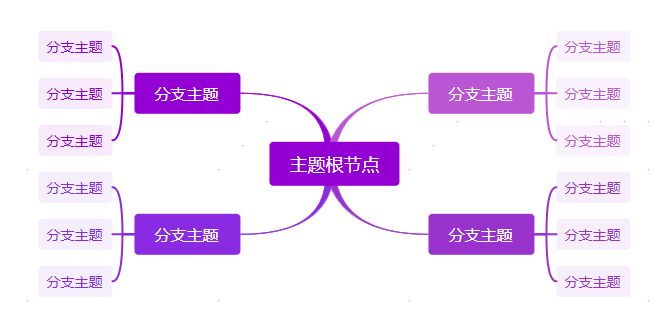
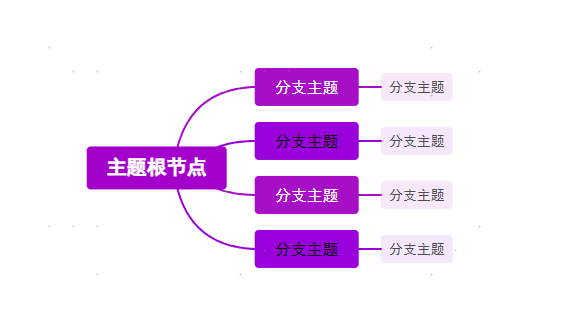
feat: 主题样式调整

Changed region(s): [[0.0621, 0.1129, 0.931, 0.9028]]

diff --git a/src/views/XMind/components/SidebarTriggerContainer.vue b/src/views/XMind/components/SidebarTriggerContainer.vue
@@ -41,7 +41,6 @@
           v-for="item in themes"
           :key="item.theme">
           <img :src="item.img" alt="theme">
-          <p>{{ item.name }}</p>
         </div>
       </div>
       <div class="structure-modal" v-show="currentId === 'jiegou'">
@@ -52,7 +51,6 @@
           v-for="item in structures"
           :key="item.structure">
           <img :src="item.img" alt="structure">
-          <p>{{ item.name }}</p>
         </div>
       </div>
       <div class="shortcut-modal" v-show="currentId === 'kuaijiejian'">
@@ -117,10 +115,10 @@ export default defineComponent({
     ]
 
     const structures = [
-      { name: '逻辑结构图', structure: 'ljjgt', img: require('@/assets/images/xmind/ljjgt.png') },
-      { name: '思维导图', structure: 'swdt', img: require('@/assets/images/xmind/swdt.png') },
-      { name: '组织架构图', structure: 'zzjgt', img: require('@/assets/images/xmind/zzjgt.png') },
-      { name: '括号图', structure: 'kht', img: require('@/assets/images/xmind/kht.png') }
+      { name: '逻辑结构图', structure: 'ljjgt', img: require('@/assets/images/xmind/ljjgt.svg') },
+      { name: '思维导图', structure: 'swdt', img: require('@/assets/images/xmind/swdt.svg') },
+      { name: '组织架构图', structure: 'zzjgt', img: require('@/assets/images/xmind/zzjgt.svg') },
+      { name: '括号图', structure: 'kht', img: require('@/assets/images/xmind/kht.svg') }
     ]
 
     const shortcuts = [
@@ -300,7 +298,7 @@ export default defineComponent({
         transition: .2s;
         overflow: hidden;
         border: 2px solid transparent;
-        padding-top: 12px;
+        border-radius: 4px;
         &:hover {
           box-shadow: 0px 0px 18px 5px rgba(0,0,0,0.1);
         }
@@ -310,14 +308,15 @@ export default defineComponent({
         }
         img {
           display: block;
-          width: 80%;
+          width: 100%;
           margin: 0 auto;
         }
-        p {
-          text-align: center;
-          color: #000;
-          font-size: 12px;
-          line-height: 38px;
+        &.structure-modal {
+         &-item {
+          img {
+            width: 80%;
+          }
+         }
         }
       }
     }

diff --git a/src/views/XMind/graph/thumbDraw.js b/src/views/XMind/graph/thumbDraw.js
@@ -662,28 +662,15 @@ export function renderNewSummaryNode () {
                   .attr('fill', 'none')
                   .each(function () {
                     select(this.parentNode)
-                      .append('text')
+                      .append('foreignObject')
                       .attr('x', controlPos.x + (16 + 10) * unit - (dir ? 0 : targetSummarys[i].summaryWidth - 10 - 10))
                       .attr('y', controlPos.y - targetSummarys[i].summaryHeight / 2 + 6)
-                      .attr('dominant-baseline', 'text-before-edge')
+                      .attr('width', targetSummarys[i].summaryWidth)
+                      .attr('height', targetSummarys[i].summaryHeight)
+                      .append('xhtml:p')
+                      .attr('class', 'node-summary-description')
                       .text(targetSummarys[i].text)
-                      .attr('fill', xmindTheme.summaryTextColor)
-                      .attr('font-weight', 'bold')
-                      .attr('font-size', 12)
-                      .each(function () {
-                        select(this.parentNode)
-                          .append('rect')
-                          .attr('class', 'high-border')
-                          .attr('x', controlPos.x + 13 * unit - (dir ? 0 : targetSummarys[i].summaryWidth + 6))
-                          .attr('y', controlPos.y - targetSummarys[i].summaryHeight / 2 - 3)
-                          .attr('width', targetSummarys[i].summaryWidth + 6)
-                          .attr('height', targetSummarys[i].summaryHeight + 6)
-                          .attr('rx', 4)
-                          .attr('ry', 4)
-                          .attr('stroke', 'none')
-                          .attr('stroke-width', '2')
-                          .attr('fill', 'transparent')
-                      })
+                      .style('color', xmindTheme.summaryTextColor)
                   })
               })
           })

diff --git a/src/views/XMind/graph/draw.js b/src/views/XMind/graph/draw.js
@@ -855,6 +855,7 @@ export function renderNewSummaryNode (id) {
       const targetSummarys = node.data.targetSummarys
       const dir = node.direction === 'right'
       const minY = getXmindSummaryPos(node).minY
+      console.log(getXmindSummaryPos(node))
       const unit = dir ? 1 : '-1'
       for (let i = 0; i < targetSummarys.length; i++) {
         const targetId = targetSummarys[i].id
@@ -925,16 +926,17 @@ export function renderNewSummaryNode (id) {
                   .attr('fill', 'none')
                   .each(function () {
                     select(this.parentNode)
-                      .append('text')
+                      .append('foreignObject')
                       .attr('x', controlPos.x + (16 + 10) * unit - (dir ? 0 : targetSummarys[i].summaryWidth - 10 - 10))
                       .attr('y', controlPos.y - targetSummarys[i].summaryHeight / 2 + 6)
-                      .attr('dominant-baseline', 'text-before-edge')
+                      .attr('width', targetSummarys[i].summaryWidth)
+                      .attr('height', targetSummarys[i].summaryHeight)
+                      .append('xhtml:p')
+                      .attr('class', 'node-summary-description')
                       .text(targetSummarys[i].text)
-                      .attr('fill', xmindTheme.summaryTextColor)
-                      .attr('font-weight', 'bold')
-                      .attr('font-size', 12)
+                      .style('color', xmindTheme.summaryTextColor)
                       .each(function () {
-                        select(this.parentNode)
+                        select(this.parentNode.parentNode)
                           .append('rect')
                           .attr('class', 'high-border')
                           .attr('x', controlPos.x + 13 * unit - (dir ? 0 : targetSummarys[i].summaryWidth + 6))

diff --git a/src/views/XMind/theme/index.js b/src/views/XMind/theme/index.js
@@ -13,16 +13,16 @@ export default {
         return {
           rx: 4,
           ry: 4,
-          fill: '#FF0000',
-          stroke: '#FF0000',
+          fill: '#092933',
+          stroke: '#092933',
           strokeWidth: 0,
           textStyle: {
             color: '#fff',
-            fontSize: 20,
-            fontWeight: 'bold'
+            fontSize: 18,
+            fontWeight: 'normal'
           },
           lineStyle: {
-            fill: '#FF0000',
+            fill: '#092933',
             lineWidth: 2
           },
           margin: {
@@ -240,8 +240,8 @@ export default {
           strokeWidth: 0,
           textStyle: {
             color: '#fff',
-            fontSize: 20,
-            fontWeight: 'bold'
+            fontSize: 18,
+            fontWeight: 'normal'
           },
           lineStyle: {
             fill: '#008B8B',
@@ -266,7 +266,7 @@ export default {
       getStyle: function () {
         return {
           colors: ['#00868B', '#008B8B', '#528B8B'],
-          textColors: ['#fff', '#000', '#fff'],
+          textColors: ['#fff', '#fff', '#fff'],
           rx: 4,
           ry: 4,
           stroke: 'rgba(0,0,0,0)',
@@ -352,8 +352,8 @@ export default {
           strokeWidth: 0,
           textStyle: {
             color: '#fff',
-            fontSize: 20,
-            fontWeight: 'bold'
+            fontSize: 18,
+            fontWeight: 'normal'
           },
           lineStyle: {
             fill: '#9400D3',
@@ -378,7 +378,7 @@ export default {
       getStyle: function () {
         return {
           colors: ['#9932CC', '#8A2BE2'],
-          textColors: ['#fff', '#000'],
+          textColors: ['#fff', '#fff'],
           rx: 4,
           ry: 4,
           stroke: 'rgba(0,0,0,0)',

diff --git a/src/views/XMind/index.vue b/src/views/XMind/index.vue
@@ -828,6 +828,7 @@ export default defineComponent({
           break
         case 'copy-style':
           copyStyle.value = getNodeCustomStyle(currnentNode.value.data)
+          console.log(currnentNode.value)
           hiddenPopover()
           break
         case 'reference-style':
@@ -838,7 +839,6 @@ export default defineComponent({
           }
           updateXmindCanvas()
           hiddenPopover()
-          copyStyle.value = null
           break
         case 'cut':
           isPastState.value = false
@@ -1181,7 +1181,7 @@ export default defineComponent({
       if (readOnly.value) return
       const combinationId = select(_this).datum().parentId
       editorTypeName.value = 'summary'
-      editorNodeValue.value = select(`#summary-path-${combinationId} > g > text`).text()
+      editorNodeValue.value = select(`#summary-path-${combinationId} .node-summary-description`).text()
       editorVisible.value = true
     }
 
@@ -2139,7 +2139,7 @@ export default defineComponent({
   animation: relation-path-move 10s infinite linear;
 }
 
-.node-text-description {
+.node-summary-description, .node-text-description {
   word-break: break-all;
   white-space: pre-wrap;
   line-height: inherit;
@@ -2147,6 +2147,11 @@ export default defineComponent({
   margin: 0;
   max-width: 300px;
   line-break: anywhere;
+  &.node-summary-description {
+    max-width: 420px;
+    font-size: 12px;
+    font-weight: bold;
+  }
 }
 
 @keyframes relation-path-move {

diff --git a/src/views/XMind/utils/node.js b/src/views/XMind/utils/node.js
@@ -119,7 +119,14 @@ function calcNodeSize (nodes) {
     if (node.data.targetSummarys?.length) {
       const summarys = node.data.targetSummarys
       for (let i = 0; i < summarys.length; i++) {
-        const { width, height } = createTextNode(summarys[i].text, 12, 'bold', "微软雅黑, 'Microsoft YaHei'")
+        // const { width, height } = createTextNode(summarys[i].text, 12, 'bold', "微软雅黑, 'Microsoft YaHei'")
+        const { width, height } = getTextNodeRect({
+          text: summarys[i].text,
+          fontSize: 12,
+          fontWeight: 'bold',
+          fontFamily: "微软雅黑, 'Microsoft YaHei'",
+          maxWidth: '420px'
+        })
         summarys[i].summaryWidth = width + 20
         summarys[i].summaryHeight = height + 12
       }
@@ -163,11 +170,12 @@ function getTextNodeRect (options) {
     fontSize,
     fontWeight = 'normal',
     fontFamily = "黑体, SimHei, 'Heiti SC'",
-    fontStyle = 'normal'
+    fontStyle = 'normal',
+    maxWidth = '300px'
   } = options
   const textSpan = document.createElement('p')
   const spanStyle = {
-    maxWidth: '300px',
+    maxWidth,
     fontSize: fontSize + 'px',
     fontWeight,
     fontFamily,

diff --git a/src/views/XMind/components/Editor.vue b/src/views/XMind/components/Editor.vue
@@ -101,11 +101,9 @@ export default defineComponent({
             padding: '8px'
           },
           c2: {
-            whiteSpace: 'pre-wrap',
-            wordBreak: 'break-all',
-            minWidth: 'auto',
             marginTop: 0,
-            lineBreak: 'anywhere'
+            minWidth: 'auto',
+            maxWidth: 'auto'
           }
         }
       }
@@ -136,7 +134,7 @@ export default defineComponent({
   background: #fff;
   box-shadow: 0px 0px 18px 5px rgba(0,0,0,0.1);
   border-radius: 2px;
-  height: 42px;
+  min-height: 42px;
   line-height: 42px;
   padding: 0 12px;
   &.custom-position {
@@ -148,8 +146,12 @@ export default defineComponent({
     font-size: 14px;
     outline: none;
     min-width: 360px;
+    max-width: 420px;
     display: inline-block;
     margin-top: 12px;
+    white-space: pre-wrap;
+    word-break: break-all;
+    line-break: anywhere;
     &:empty:before{
       color: 999;
       font-size: 12px;
